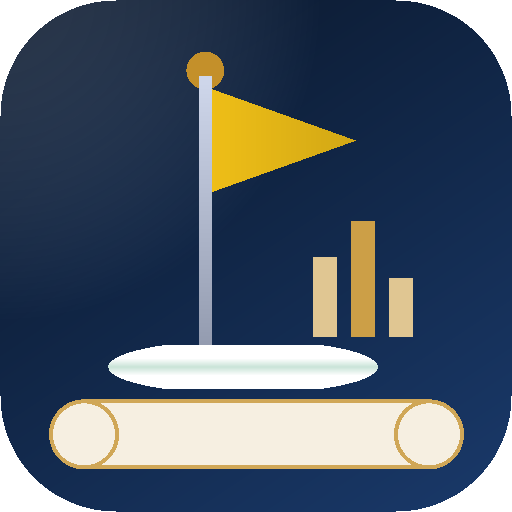
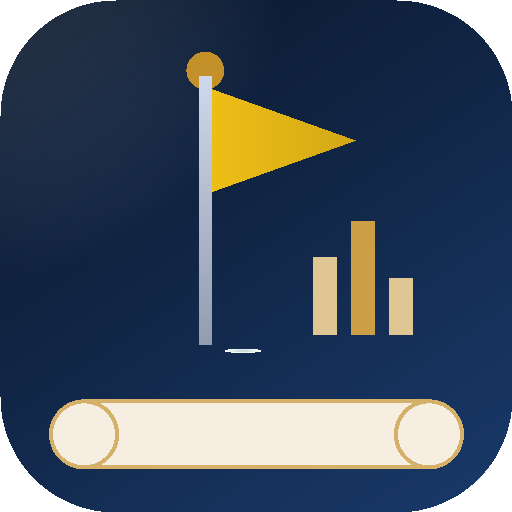
Add files via upload

Changed region(s): [[0.2188, 0.6562, 0.75, 0.7812]]

diff --git a/index.html b/index.html
@@ -2,6 +2,7 @@
 <html lang="ja">
 <head>
 <meta charset="UTF-8">
[1 lines of base64/hex data omitted]
 <meta name="viewport" content="width=device-width, initial-scale=1.0, maximum-scale=1.0, user-scalable=no">
 <meta name="apple-mobile-web-app-capable" content="yes">
 <meta name="apple-mobile-web-app-status-bar-style" content="black-translucent">
@@ -15,77 +16,7 @@
 <link rel="manifest" href="manifest.json">
 
 <!-- Apple Touch Icon (golf ball + flag SVG → data URI) -->
-<link rel="apple-touch-icon" id="touch-icon" href="icon-192.png">
-<script>
-(function(){
-  function drawIcon(size){
-    var cv=document.createElement('canvas');
-    cv.width=cv.height=size;
-    var ctx=cv.getContext('2d');
-    var s=size/190;
-    var r=size*0.225;
-    ctx.beginPath();
-    ctx.moveTo(r,0);ctx.lineTo(size-r,0);ctx.quadraticCurveTo(size,0,size,r);
-    ctx.lineTo(size,size-r);ctx.quadraticCurveTo(size,size,size-r,size);
-    ctx.lineTo(r,size);ctx.quadraticCurveTo(0,size,0,size-r);
-    ctx.lineTo(0,r);ctx.quadraticCurveTo(0,0,r,0);ctx.closePath();
-    var g=ctx.createLinearGradient(0,0,size,size);
-    g.addColorStop(0,'#0a1628');g.addColorStop(1,'#1a3a6b');
-    ctx.fillStyle=g;ctx.fill();
-    ctx.save();ctx.clip();
-    ctx.font='italic bold '+Math.round(155*s)+'px Arial,sans-serif';
-    ctx.fillStyle='rgba(255,255,255,0.06)';
-    ctx.fillText('G',-14*s,122*s);
-    var pg=ctx.createLinearGradient(73*s,0,79*s,0);
-    pg.addColorStop(0,'#d0d8f0');pg.addColorStop(1,'#8090b8');
-    ctx.strokeStyle=pg;ctx.lineWidth=5*s;ctx.lineCap='round';
-    ctx.beginPath();ctx.moveTo(76*s,28*s);ctx.lineTo(76*s,128*s);ctx.stroke();
-    ctx.beginPath();ctx.arc(76*s,26*s,7*s,0,Math.PI*2);ctx.fillStyle='#c4902a';ctx.fill();
-    ctx.beginPath();ctx.arc(76*s,26*s,5*s,0,Math.PI*2);ctx.fillStyle='#f0c060';ctx.fill();
-    var fg=ctx.createLinearGradient(76*s,32*s,132*s,52*s);
-    fg.addColorStop(0,'#f0c060');fg.addColorStop(1,'#c4902a');
-    ctx.beginPath();ctx.moveTo(76*s,32*s);ctx.lineTo(132*s,52*s);ctx.lineTo(76*s,72*s);ctx.closePath();
-    ctx.fillStyle=fg;ctx.fill();
-    ctx.strokeStyle='rgba(29,180,90,0.5)';ctx.lineWidth=2*s;
-    ctx.beginPath();ctx.moveTo(38*s,130*s);ctx.quadraticCurveTo(90*s,120*s,142*s,130*s);ctx.stroke();
-    [[116,95,9,30,0.5],[130,82,9,43,0.85],[144,103,9,22,0.5]].forEach(function(b){
-      ctx.fillStyle='rgba(196,144,42,'+b[4]+')';
-      ctx.beginPath();ctx.rect(b[0]*s,b[1]*s,b[2]*s,b[3]*s);ctx.fill();
-    });
-    var bx1=18*s,bx2=172*s,by1=148*s,by2=174*s,br2=13*s;
-    ctx.beginPath();
-    ctx.moveTo(bx1+br2,by1);ctx.lineTo(bx2-br2,by1);
-    ctx.quadraticCurveTo(bx2,by1,bx2,by1+br2);
-    ctx.lineTo(bx2,by2-br2);ctx.quadraticCurveTo(bx2,by2,bx2-br2,by2);
-    ctx.lineTo(bx1+br2,by2);ctx.quadraticCurveTo(bx1,by2,bx1,by2-br2);
-    ctx.lineTo(bx1,by1+br2);ctx.quadraticCurveTo(bx1,by1,bx1+br2,by1);ctx.closePath();
-    ctx.fillStyle='rgba(196,144,42,0.18)';ctx.fill();
-    ctx.strokeStyle='#c4902a';ctx.lineWidth=1.5*s;ctx.stroke();
-    ctx.font='bold '+Math.round(13*s)+'px Arial,sans-serif';
-    ctx.fillStyle='#c4902a';ctx.textAlign='center';
-    ctx.fillText('Golf GSPI',95*s,166*s);
-    ctx.restore();
-    return cv;
-  }
-  window.addEventListener('load',function(){
-    try{
-      var cv=drawIcon(192);
-      var url=cv.toDataURL('image/png');
-      var el=document.getElementById('touch-icon');
-      if(el){el.href=url;}
-      var head=document.head||document.getElementsByTagName('head')[0];
-      var existing=document.getElementById('touch-icon-precomposed');
-      if(!existing){
-        var lnk=document.createElement('link');
-        lnk.id='touch-icon-precomposed';
-        lnk.rel='apple-touch-icon-precomposed';
-        lnk.href=url;
-        head.appendChild(lnk);
-      }
-    }catch(e){}
-  });
-})();
-</script>
+
 
 <title>Golf GSPI</title>
 <style>